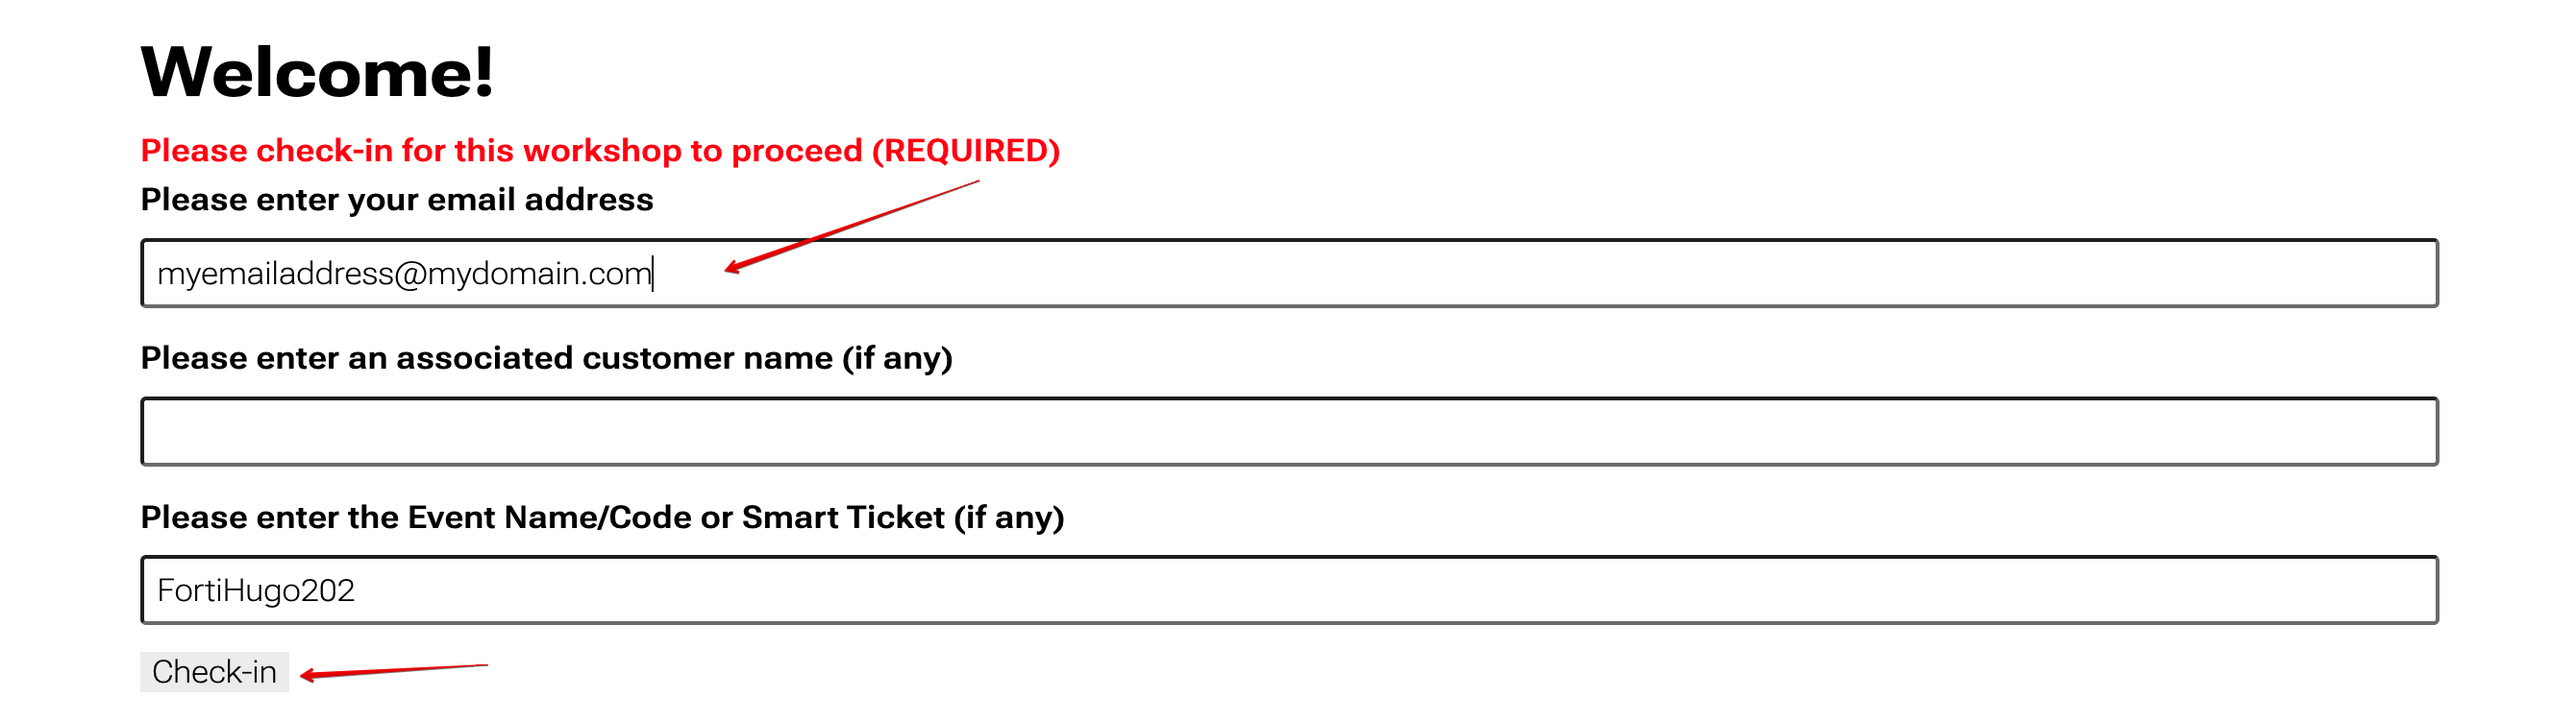
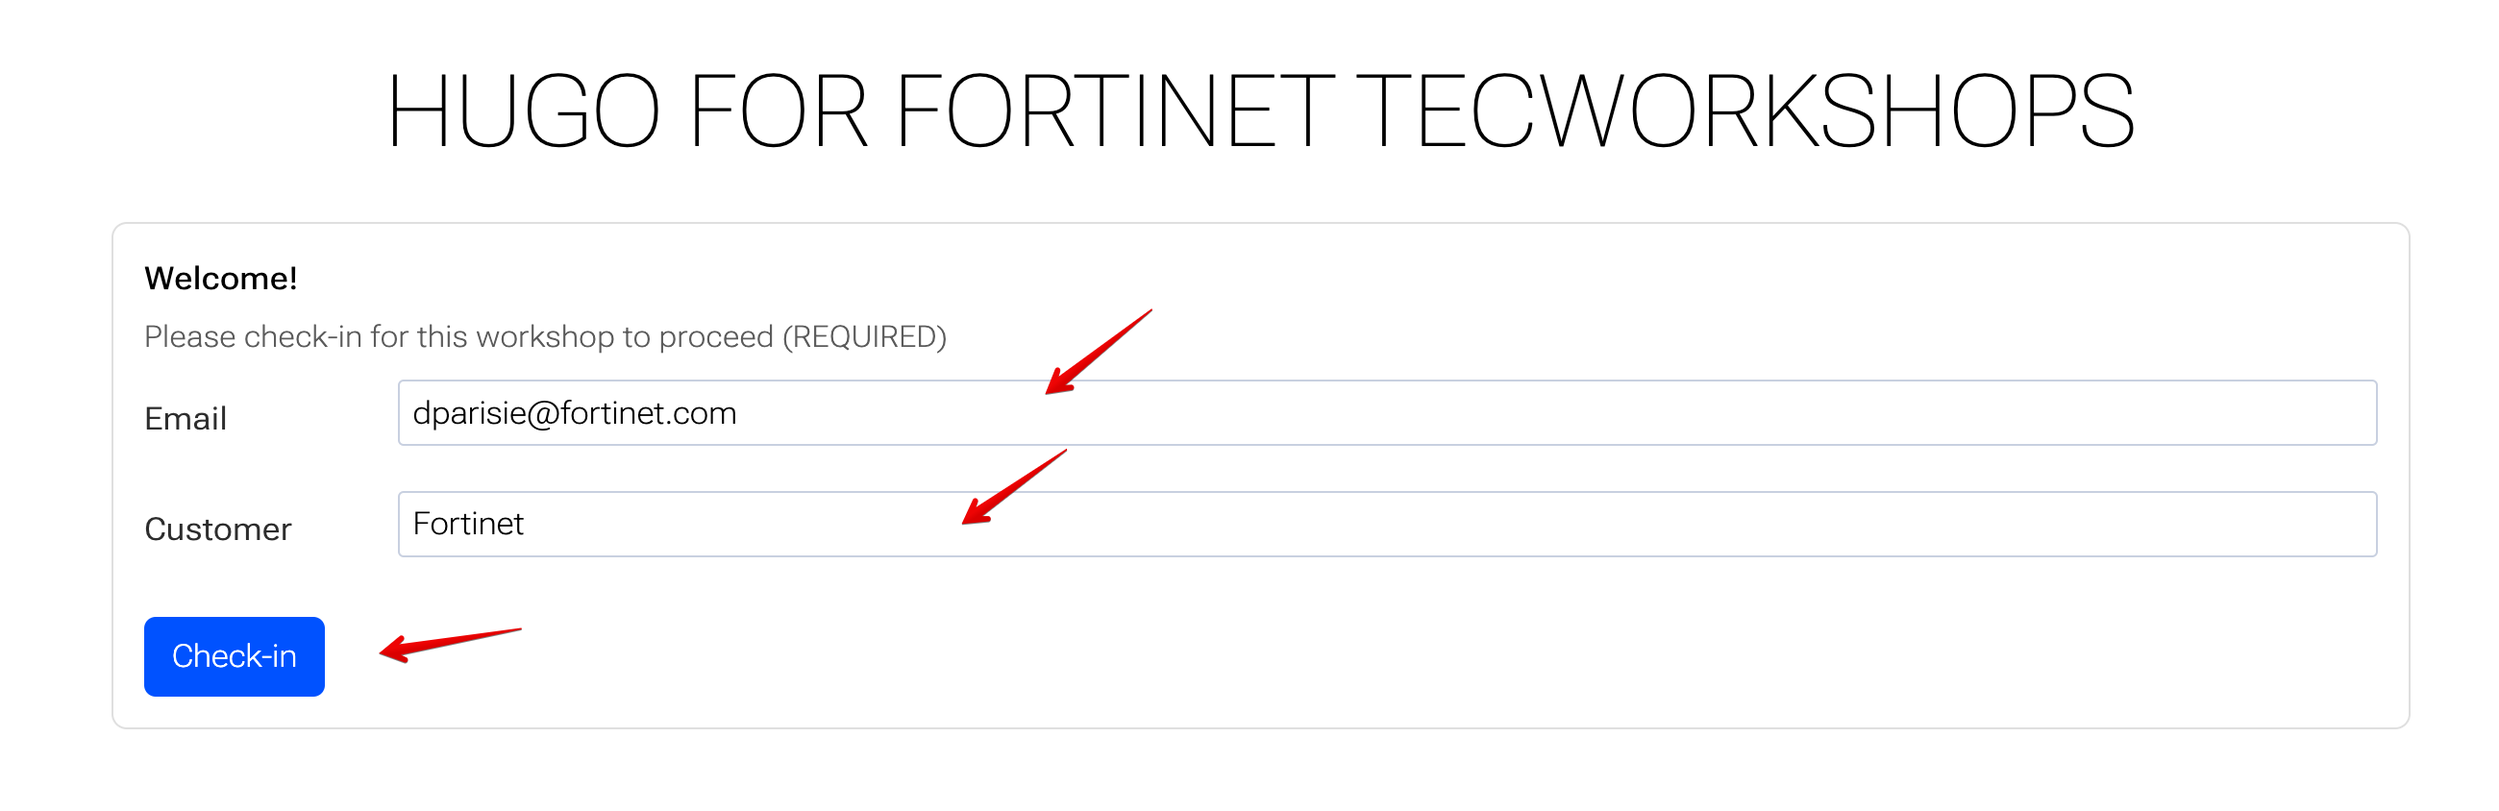
changed registration image

diff --git a/content/02Initial Configuration/1_Task0/index.md b/content/02Initial Configuration/1_Task0/index.md
@@ -9,7 +9,7 @@ weight: 01
 
 ### **Lab Registration**
 
-To begin, enter your email address and click Check-in.  Leave everything else as is.
+To begin, enter your email address and customer name, and click Check-in.
 
 {{< figure src="registration.png" >}}
 
